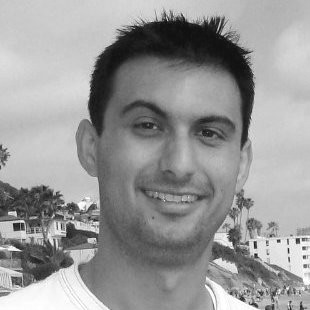
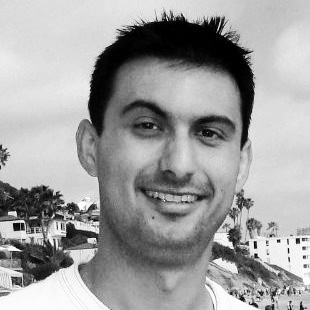
updated about us images

diff --git a/pureHtmlFolder/about.html b/pureHtmlFolder/about.html
@@ -64,19 +64,19 @@
                     <i class="fab fa-linkedin"></i>
                 </div>
             </div>
-            <div class="person gerry">
-                <img src="../src/assets/images/gerry-bw.jpg" alt="gerry">
-                <h3>Gerry</h3>
-                <div class="role">Back-End</div>
+            <div class="person torie">
+                <img src="../src/assets/images/torie-bw.jpg" alt="torie">
+                <h3>Torie</h3>
+                <div class="role">Front-End</div>
                 <div class="links">
                     <i class="fab fa-github"></i>
                     <i class="fab fa-linkedin"></i>
                 </div>
             </div>
-            <div class="person torie">
-                <img src="../src/assets/images/user.png" alt="torie">
-                <h3>Torie</h3>
-                <div class="role">Front-End</div>
+            <div class="person gerry">
+                <img src="../src/assets/images/gerry-bw.jpg" alt="gerry">
+                <h3>Gerry</h3>
+                <div class="role">Back-End</div>
                 <div class="links">
                     <i class="fab fa-github"></i>
                     <i class="fab fa-linkedin"></i>
